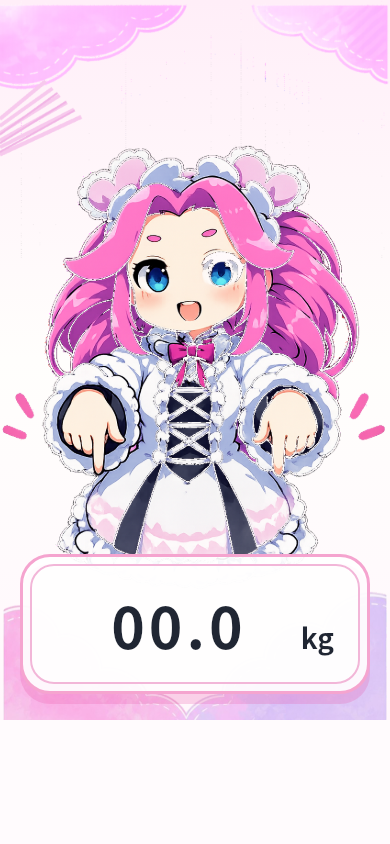
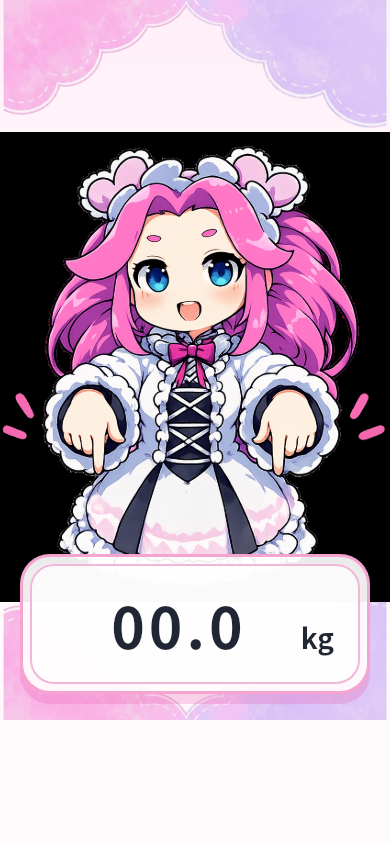
Restore home screen assets

diff --git a/lib/screens/home_screen.dart b/lib/screens/home_screen.dart
@@ -15,7 +15,6 @@ class HomeScreen extends ConsumerStatefulWidget {
 class _HomeScreenState extends ConsumerState<HomeScreen> {
   static const _characterPointingInput =
       'assets/images/character_pointing_input.png';
-  static const _cloudTop = 'assets/images/cloud_top.png';
   static const _cloudBottom = 'assets/images/cloud_bottom.png';
 
   final _controller = TextEditingController(text: '00.0');
@@ -50,7 +49,6 @@ class _HomeScreenState extends ConsumerState<HomeScreen> {
                   controller: _controller,
                   focusNode: _focusNode,
                   characterAsset: _characterPointingInput,
-                  cloudTopAsset: _cloudTop,
                   cloudBottomAsset: _cloudBottom,
                 ),
               ),
@@ -71,7 +69,6 @@ class _WeightInputHero extends StatelessWidget {
     required this.controller,
     required this.focusNode,
     required this.characterAsset,
-    required this.cloudTopAsset,
     required this.cloudBottomAsset,
   });
 
@@ -79,7 +76,6 @@ class _WeightInputHero extends StatelessWidget {
   final TextEditingController controller;
   final FocusNode focusNode;
   final String characterAsset;
-  final String cloudTopAsset;
   final String cloudBottomAsset;
 
   @override
@@ -117,11 +113,14 @@ class _WeightInputHero extends StatelessWidget {
             top: 0,
             left: 0,
             right: 0,
-            child: Image.asset(
-              cloudTopAsset,
-              fit: BoxFit.fitWidth,
-              alignment: Alignment.topCenter,
-              excludeFromSemantics: true,
+            child: Transform.flip(
+              flipY: true,
+              child: Image.asset(
+                cloudBottomAsset,
+                fit: BoxFit.fitWidth,
+                alignment: Alignment.topCenter,
+                excludeFromSemantics: true,
+              ),
             ),
           ),
           Positioned(

diff --git a/test/home_screen_golden_test.dart b/test/home_screen_golden_test.dart
@@ -9,7 +9,6 @@ import 'package:weight_report_app/screens/home_screen.dart';
 const _fontFamily = 'Noto Sans JP';
 const _requiredImageAssets = <String>[
   'assets/images/character_pointing_input.png',
-  'assets/images/cloud_top.png',
   'assets/images/cloud_bottom.png',
 ];
 
